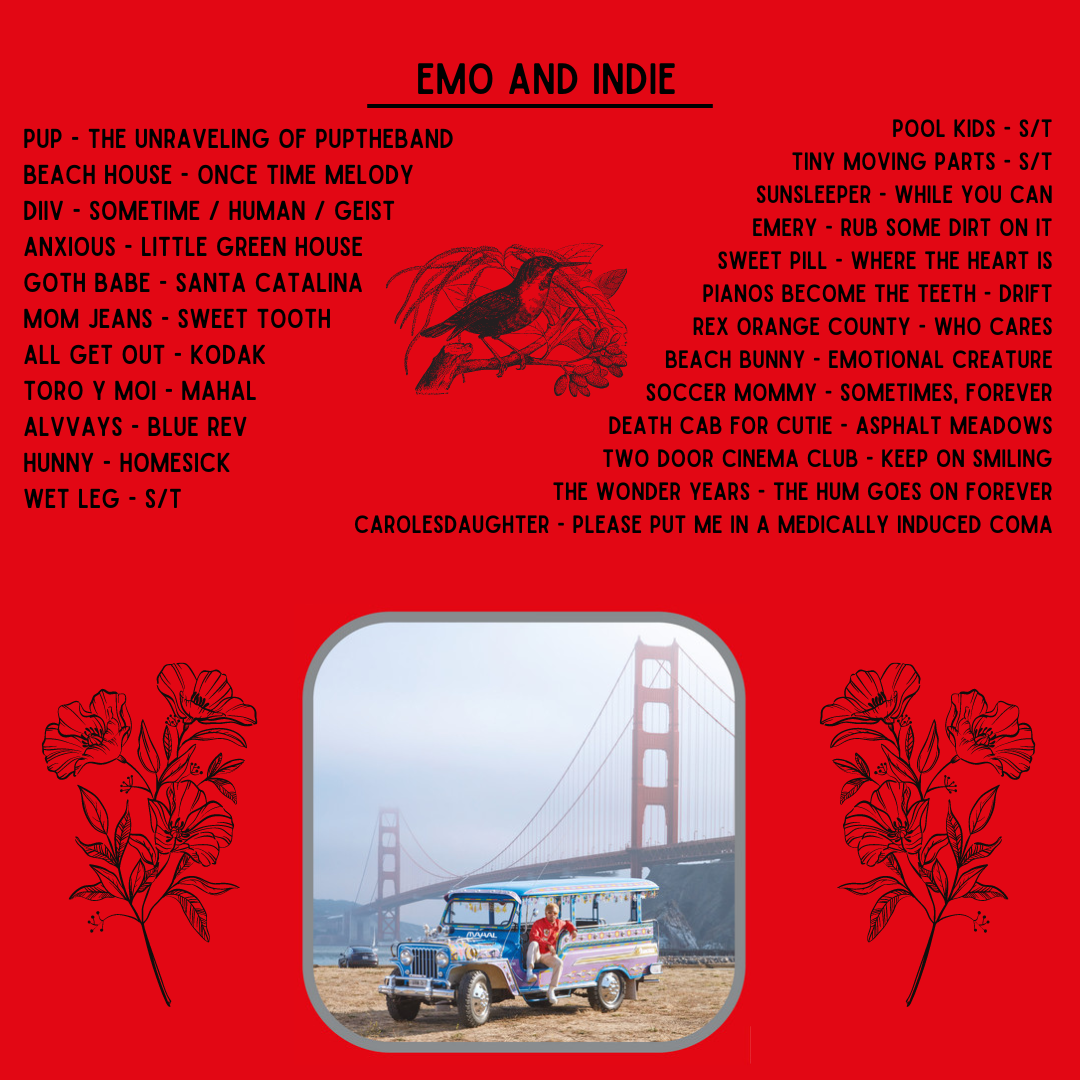
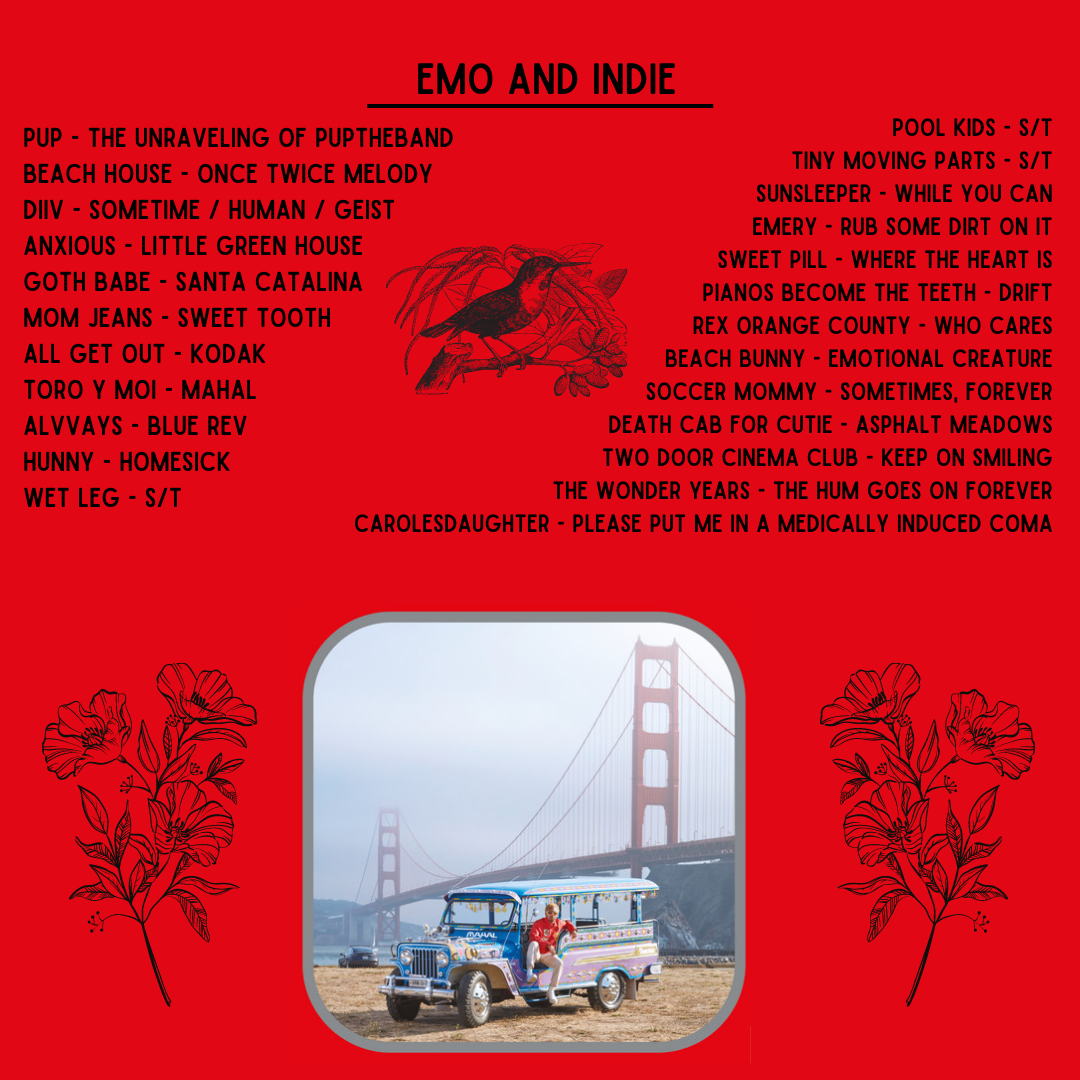
Update3
Added 2023 and counter. Corrected typos.

diff --git a/index.html b/index.html
@@ -40,7 +40,7 @@
                 <!-- Masthead Avatar Image-->
                 <img class="masthead-avatar mb-5" src="Assets/favicon3.png" alt="..." />
                 <!-- Masthead Heading-->
-                <h1 class="masthead-heading text-uppercase mb-0">Nolan's Records of 2022</h1>
+                <h1 class="masthead-heading text-uppercase mb-0">Nolan's Records of 2023</h1>
                 <!-- Icon Divider-->
                 <div class="divider-custom divider-light">
                     <div class="divider-custom-line"></div>
@@ -48,21 +48,42 @@
                     <div class="divider-custom-line"></div>
                 </div>
                 <!-- Masthead Subheading-->
-                <p class="masthead-subheading font-weight-light mb-0">I listen to hundreds of new records so you don't have to</p>
+                <p class="masthead-subheading font-weight-light mb-0">I listen to hundreds of new records so you don't have to</p><br>
+                <!-- 2023 Spotify -->
+                <iframe style="border-radius:12px" src="https://open.spotify.com/embed/playlist/6gHL7MOBgALRCPwTY48fn0?utm_source=generator&theme=0" width="100%" height="352" frameBorder="0" allowfullscreen="" allow="autoplay; clipboard-write; encrypted-media; fullscreen; picture-in-picture" loading="lazy"></iframe>
+                <br><br>
+                <script src="https://cdn.commoninja.com/sdk/latest/commonninja.js" defer></script>
+                <div class="commonninja_component pid-d9d75bdd-fe86-434d-820f-df149b35dc06"></div>
             </div>
         </header>
+
+        
 
         <!-- Genres Section-->
         <section class="page-section Genres" id="Genres">
             <div class="container">
                 <!-- Genres Section Heading-->
                 <h2 class="page-section-heading text-center text-uppercase text-secondary mb-0">Genres</h2>
+                
                 <!-- Icon Divider-->
                 <div class="divider-custom">
                     <div class="divider-custom-line"></div>
                     <div class="divider-custom-icon"><i class="fa-solid fa-compact-disc"></i></div>
                     <div class="divider-custom-line"></div>
                 </div>
+                <h3 class="text-center text-secondary mb-4" font-weight:100> - click on the graphics to see full lists - </h3>
+
+                <!-- Genres Item 0-->
+                <div class="row justify-content-center">
+                    <div class="col-md-6 col-lg-4 mb-5">
+                    <div class="Genres-item mx-auto" data-bs-toggle="modal" data-bs-target="#GenresModal0">
+                       <div class="Genres-item-caption d-flex align-items-center justify-content-center h-100 w-100">
+                        </div>
+                        <img class="img-fluid" src="Assets/Pics/1 Fav 2022.png" alt="Fav 2022 Records" />
+                    </div>
+                </div>
+            </div>
+                
                 <!-- Genres Grid Items-->
                 <div class="row justify-content-center">
                     <!-- Genres Item 1-->
@@ -162,8 +183,7 @@
                 </div>
                 <!-- About Section Content-->
                 <div class="row">
-                    <div class="text-center text-dark"><p class="lead">In 2022 I listened to over 440 new records across a ton of genres. Here's a Spotify playlist I made highlighting the ones I liked the most; starting
-                        off with Rap and Hip Hop, R&B, Pop, Electronic, Indie, Emo, ALternative, Country & Bluegrass, Rock, Punk and 10 different types of Metal and Hardcore. Let me know what you think?</p></div>
+                    <div class="text-center text-dark"><p class="lead">In 2022 I listened to over 440 new records across a ton of genres. Here's a Spotify playlist I made highlighting the ones I liked the most, roughly organized by genre. Let me know what you think?</p></div>
                     <div class="col-lg-4 me-auto"><p class="lead"></p></div>
                 </div>
                 <!-- About Section Widget-->
@@ -267,6 +287,59 @@
             <div class="container"><small>Copyright &copy; RAD Studios 2022</small></div>
         </div>
         <!-- Genres Modals-->
+        <!-- Genres Modal 0 -->
+        <div class="Genres-modal modal fade" id="GenresModal0" tabindex="-1" aria-labelledby="GenresModal0" aria-hidden="true">
+            <div class="modal-dialog modal-xl">
+                <div class="modal-content">
+                    <div class="modal-header border-0"><button class="btn-close" type="button" data-bs-dismiss="modal" aria-label="Close"></button></div>
+                    <div class="modal-body text-center pb-5">
+                        <div class="container">
+                            <div class="row justify-content-center">
+                                <div class="col-lg-8">
+                                    <!-- Genres Modal - Title-->
+                                    <h2 class="Genres-modal-title text-secondary text-uppercase mb-0">Favorite Records of 2022</h2>
+                                    <!-- Icon Divider-->
+                                    <div class="divider-custom">
+                                        <div class="divider-custom-line"></div>
+                                        <div class="divider-custom-icon"><i class="fa-solid fa-compact-disc"></i></div>
+                                        <div class="divider-custom-line"></div>
+                                    </div>
+                                    <!-- Genres Modal - Text-->
+                                    <p class="mb-4">
+                                        <a href="https://open.spotify.com/album/3AXdvdFv3yoEyVD9UH2h1B" target="_blank">The Callous Daoboys - Celebrity Therapist</a><br>
+                                        <a href="https://open.spotify.com/album/7tsD5NnZCCk1RxnIIYwY7t" target="_blank">Cave In - Heavy Pendulum</a><br>
+                                        <a href="https://open.spotify.com/album/2yYTyvYrC53l8Xaz5LfUqJ" target="_blank">156/Silence - Narrative</a><br>
+                                        <a href="https://jid.lnk.to/TheForeverStory" target="_blank">JID - The Forever Story</a><br>
+                                        <a href="https://open.spotify.com/album/3derpgU8KpIaQCu8uZyr61" target="_blank">Ithaca - They Fear Us</a><br>
+                                        <a href="https://open.spotify.com/album/4gN9UsBAZxs3UIRiDj9e9w" target="_blank">Mass Worship - Portal Tombs</a><br>
+                                        <a href="https://denzelcurrymusic.bandcamp.com/album/melt-my-eyez-see-your-future" target="_blank">Denzel Curry - Melt My Eyez See Your Future</a><br>
+                                        <a href="https://spiritworld.lnk.to/DEATHWESTERN" target="_blank">SpiritWorld - DEATHWESTERN</a><br>
+                                        <a href="https://open.spotify.com/album/0hpFRZEgy6k8J7gS29F0Q4" target="_blank">Wiegedood - There’s Always Blood At The End of The Road</a><br>
+                                        <a href="https://poolkidsband.bandcamp.com/album/pool-kids" target="_blank">Pool Kids - s/t</a><br>
+                                        <a href="https://open.spotify.com/album/4BvnbCJbTPkyZYYBWVijgq" target="_blank">Alvvays - Blue Rev</a><br>
+                                        <a href="https://open.spotify.com/album/0NFzEDq97JGolgZ9fd7c1B" target="_blank">Greyhaven - This Bright and Beautiful World</a><br>
+                                        <a href="https://open.spotify.com/album/5LDm7EQU04NgEHiLF2beaB" target="_blank">Heriot - Profound Morality</a><br>
+                                        <a href="https://bfan.link/undertheweight" target="_blank">Distinguisher - Under the Weight of Things I Couldn’t Change</a><br>
+                                        <a href="https://yr1.se/caveworld" target="_blank">Viagra Boys - Cave World</a><br>
+                                        <a href="https://orcd.co/grisklein" target="_blank">Birds in A Row - Gris Klein</a><br>
+                                        <a href="https://open.spotify.com/album/0JO5WJ19NtFRtVYOnw24xS" target="_blank">Rina Sawayama - Hold The Girl</a><br>
+                                        <a href="https://sw33tpill.bandcamp.com/album/where-the-heart-is" target="_blank">Sweet Pill - Where the Heart Is</a><br>
+                                        <a href="https://open.spotify.com/album/0IxkOdfNHkZBUJECtBgMUZ" target="_blank">Just Mustard - Heart Under</a><br>
+                                        <a href="https://open.spotify.com/album/53MtM2aU3PXqSfcrkhd1jR" target="_blank">Hath - All That Was Promised</a><br>
+                                        <a href="https://open.spotify.com/album/32mMnFqz1MC2Sd6O5i8fuH" target="_blank">Brutus - Unison Life</a><br>
+                                        </p>
+                                    <button class="btn btn-primary" data-bs-dismiss="modal">
+                                        <i class="fas fa-xmark fa-fw"></i>
+                                        Close Window
+                                    </button>
+                                </div>
+                            </div>
+                        </div>
+                    </div>
+                </div>
+            </div>
+        </div>
+
         <!-- Genres Modal 1 Rap/Hip Hop-->
         <div class="Genres-modal modal fade" id="GenresModal1" tabindex="-1" aria-labelledby="GenresModal1" aria-hidden="true">
             <div class="modal-dialog modal-xl">
@@ -431,7 +504,7 @@
                                     <!-- Genres Modal - Text-->
                                     <p class="mb-4">
                                         <a href="https://open.spotify.com/album/2vMWoMKeyq9m1xIghMKkaL" target="_blank">Mom Jeans - Sweet Tooth</a><br>
-                                        <a href="https://open.spotify.com/album/79NySyjxJ8xric31mXKMAo" target="_blank">Beach House - Once Time Melody</a><br>
+                                        <a href="https://open.spotify.com/album/79NySyjxJ8xric31mXKMAo" target="_blank">Beach House - Once Twice Melody</a><br>
                                         <a href="https://open.spotify.com/album/67Yuw187UU3Gf644liBhmg" target="_blank">Carolesdaughter - please put me in a medically induced comar</a><br>
                                         <a href="https://pup.lnk.to/TUOPTB" target="_blank">Pup - The Unraveling of Puptheband</a><br>
                                         <a href="https://open.spotify.com/album/0YCfpM119gohGGBYBLECfj" target="_blank">Anxious - Little Green House</a><br>
@@ -743,7 +816,7 @@
                                 <a href="https://spiritworld.lnk.to/DEATHWESTERN" target="_blank">SpiritWorld - DEATHWESTERN</a><br>
                                 <a href="https://orcd.co/thehybridsuns" target="_blank">Exocrine - The Hybrid Suns</a><br>
                                 <a href="https://open.spotify.com/album/7kGPIrJmr3pBocTyVfXHYH" target="_blank">Psychonaut - Violate Consensus Reality</a><br>
-                                <a href="https://open.spotify.com/album/0lFIGilli3TdJDFXhtxp5i" target="_blank">Harakiri the Sky - Aokigahara MMXXII</a><br> 
+                                <a href="https://open.spotify.com/album/0lFIGilli3TdJDFXhtxp5i" target="_blank">Harakiri for the Sky - Aokigahara MMXXII</a><br> 
                                 </p>
                                 </div>
                                 </div>

diff --git a/styles.css b/styles.css
@@ -132,7 +132,7 @@ h3, .h3 {
 }
 @media (min-width: 1200px) {
   h3, .h3 {
-    font-size: 1.75rem;
+    font-size: 1.25rem;
   }
 }
 
@@ -602,6 +602,17 @@ progress {
 .img-fluid {
   max-width: 100%;
   height: auto;
+}
+
+.GenresModal0 {
+  max-width: 100%;
+  height: auto;
+  flex: 1;
+  align-items: center;
+  text-align: center;
+  position: relative;
+  display: flex;
+  flex-wrap: wrap;
 }
 
 .img-thumbnail {
